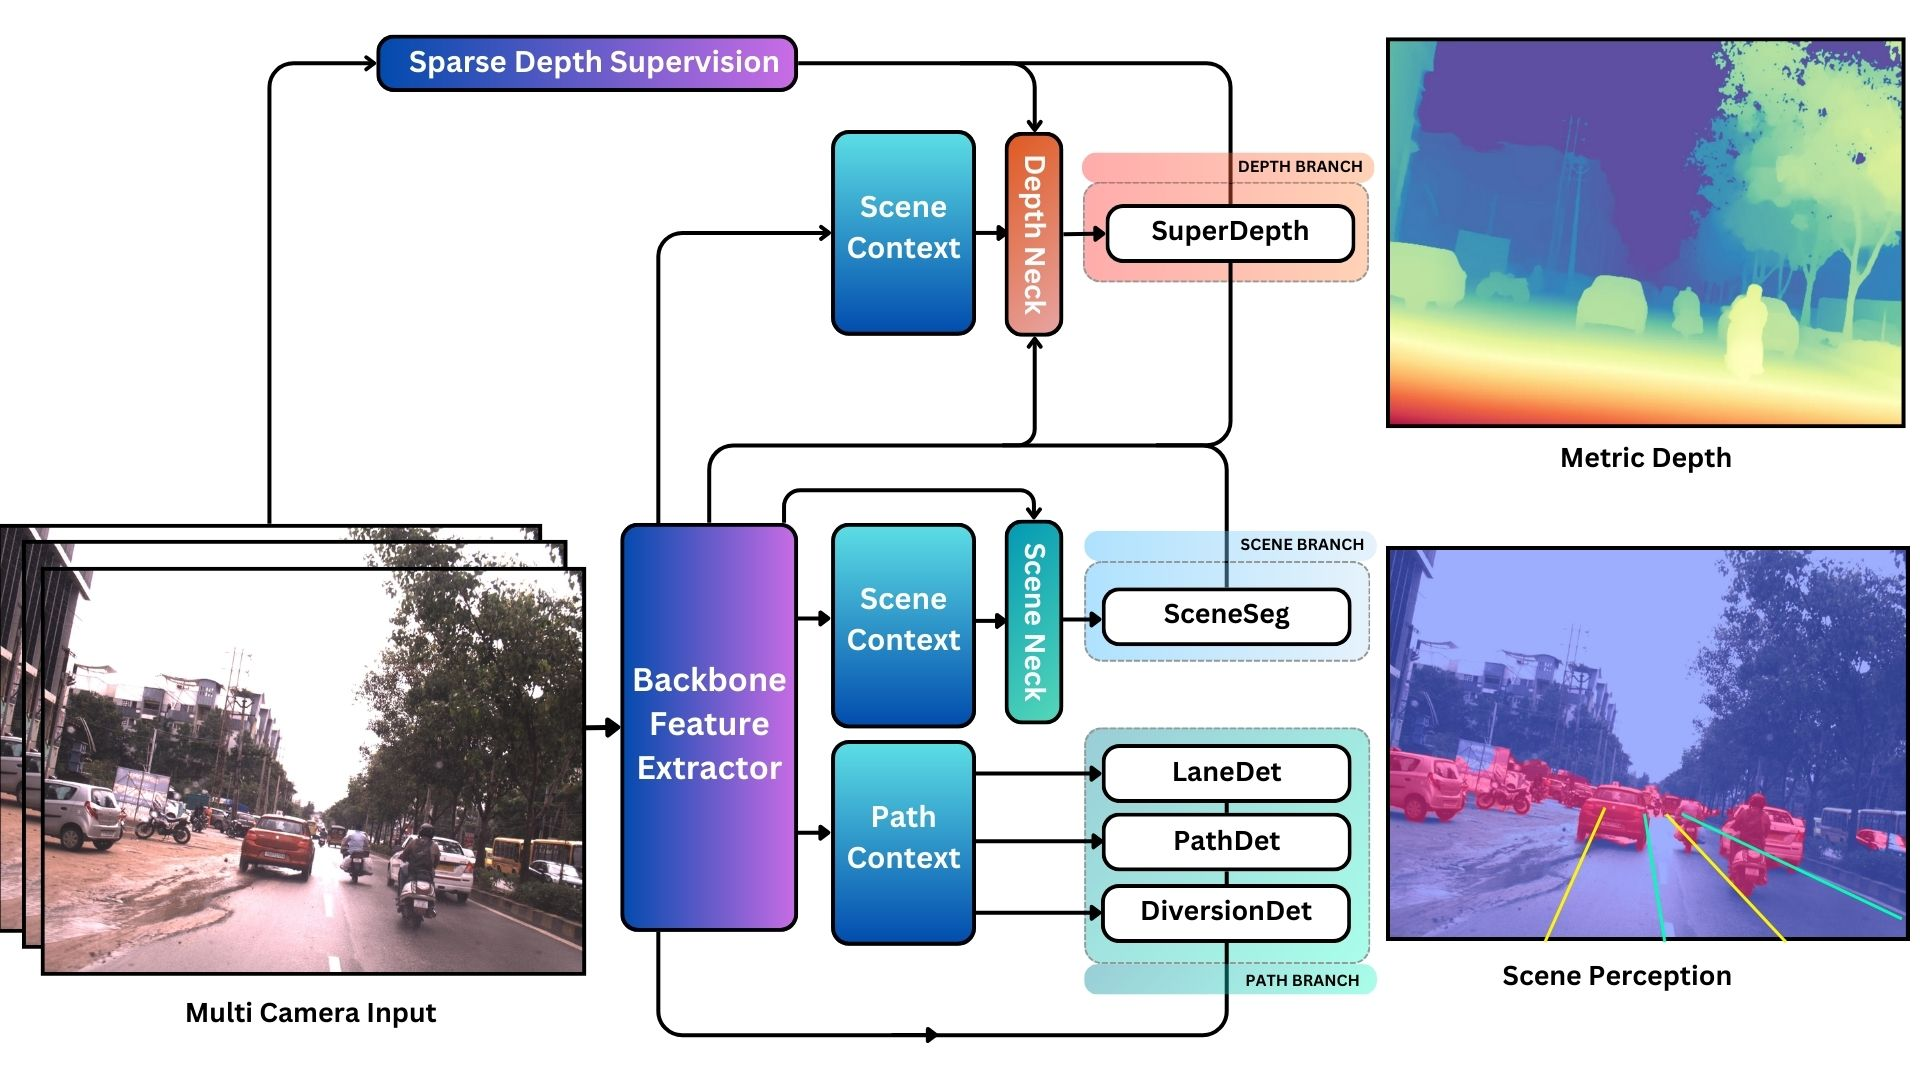
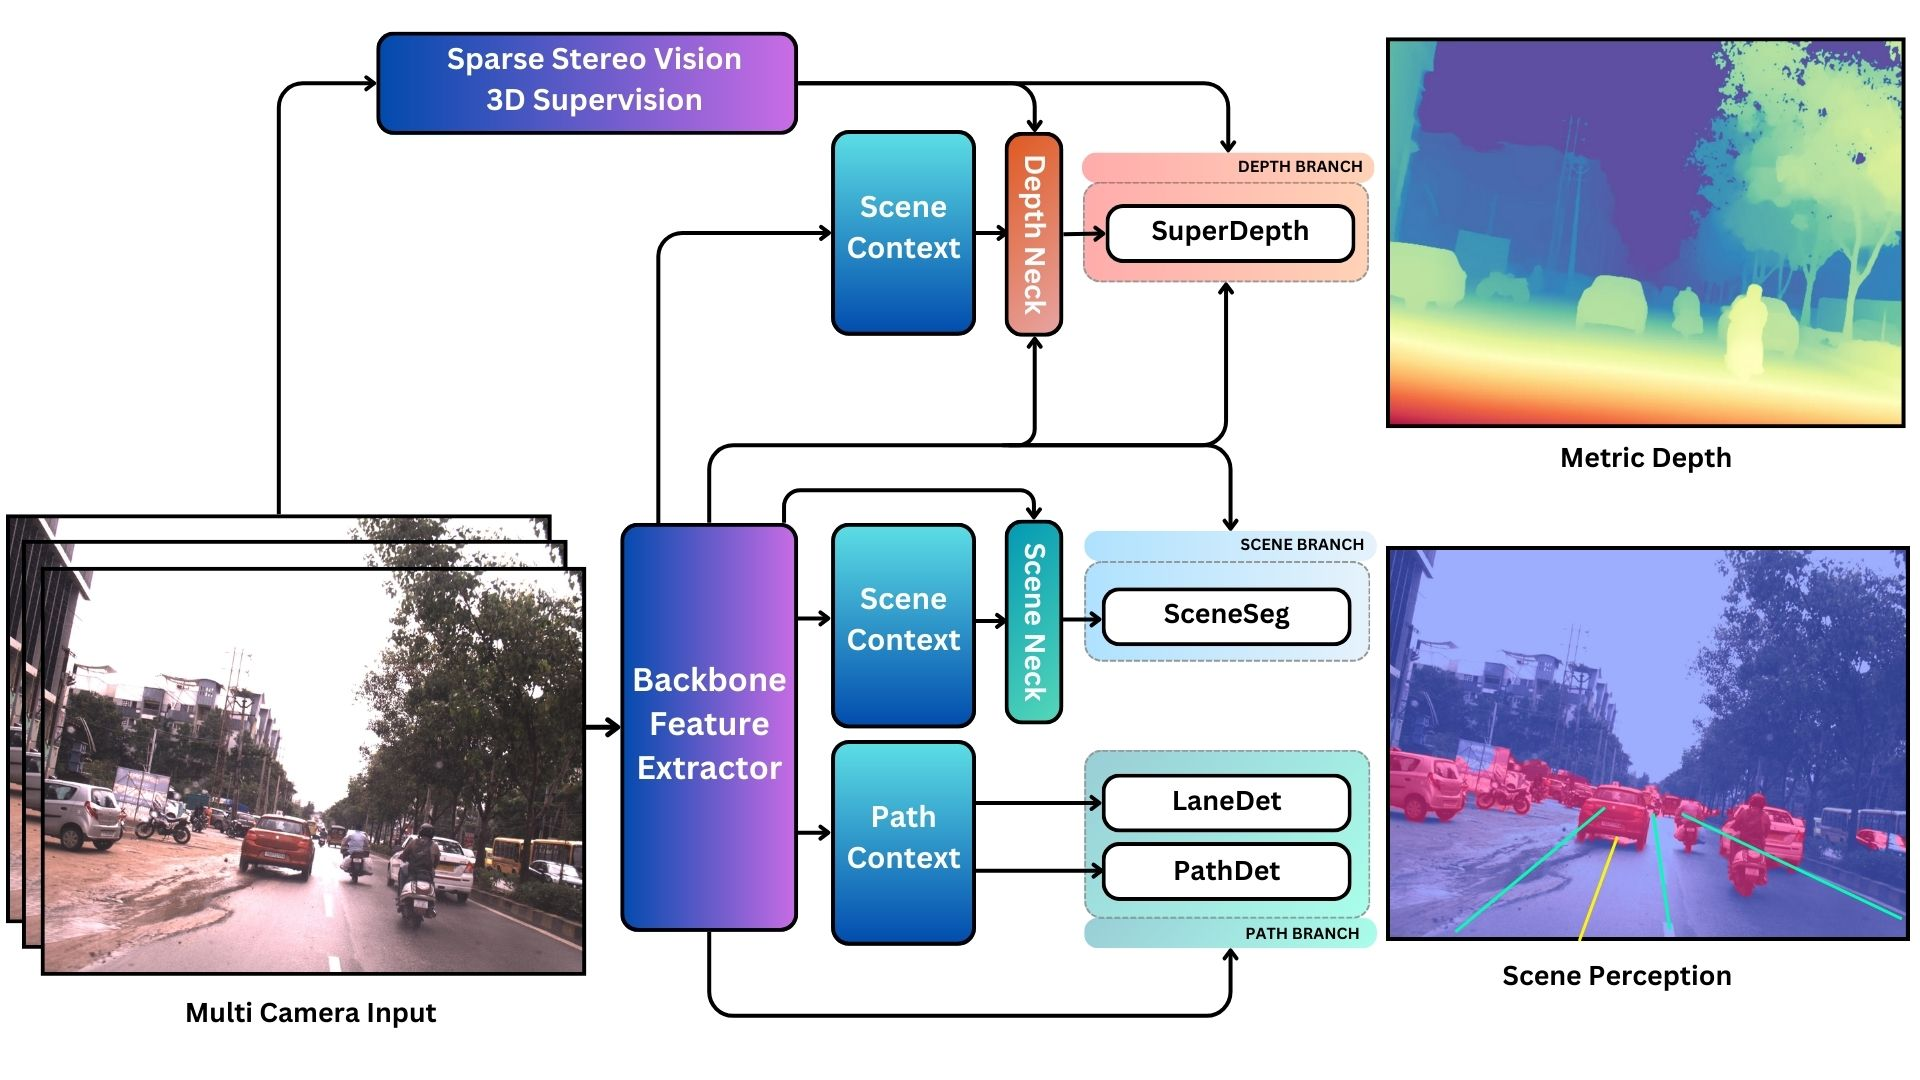
updating README of main repo and AutoSeg to reflect new architecture change of merging DiversionDet into PathDet and updatind AutoSeg diagram

diff --git a/AutoSeg/README.md b/AutoSeg/README.md
@@ -7,7 +7,7 @@ AutoSeg has been hardened by training on a diverse set of real-world image data 
 
 By following an ensemble-of-experts approach, AutoSeg is able to learn generalizble features that are adaptable to out-of-domain scenarios and can facilitate multiple downstream perceptual tasks such as semantic object segmentation, lane perception, and even end-to-end autonomous driving. Furthermore, each neural expert can be independently refined and fine-tuned with additional data allowing for a richer representation of edge-case scenarios which are challenging to capture in a single predictor model.
 
-The current AutoSeg release will comprise 5 perceptual tasks performed by different sub-neural-network experts, these include: **SceneSeg** (completed), **SuperDepth** (in-progress), **LaneDet** (in-progress), **PathDet** (to do), and **DiversionDet** (to do).
+The current AutoSeg release will comprise 4 perceptual tasks performed by different sub-neural-network experts, these include: **SceneSeg** (completed), **SuperDepth** (in-progress), **PathDet** (in-progress) and **LaneDet** (to do).
 
 ![Autoseg Network Diagram](../Diagrams/AutoSeg.jpg)
 

diff --git a/README.md b/README.md
@@ -52,8 +52,7 @@ Existing highway pilot systems can reliably detect the driving corridor through 
 To solve the driving corridor perception challenge, we will develop a universal driving path detection system called **Pathfinder**, using three independent driving corridor perception technologies:
 
 - **LaneDet** - lane line detection
-- **PathDet** - direct prediction of driving corridors
-- **DiversionDet** - direct prediction of driving corridors during roadworks
+- **PathDet** - direct prediction of driving corridors on roads with and without lanes and also during road works
 
 By using an ensemble approach, **Pathfinder** will be able to robustly tackle edge case driving scnearios and ensure autonomous vehicle safety.
 
